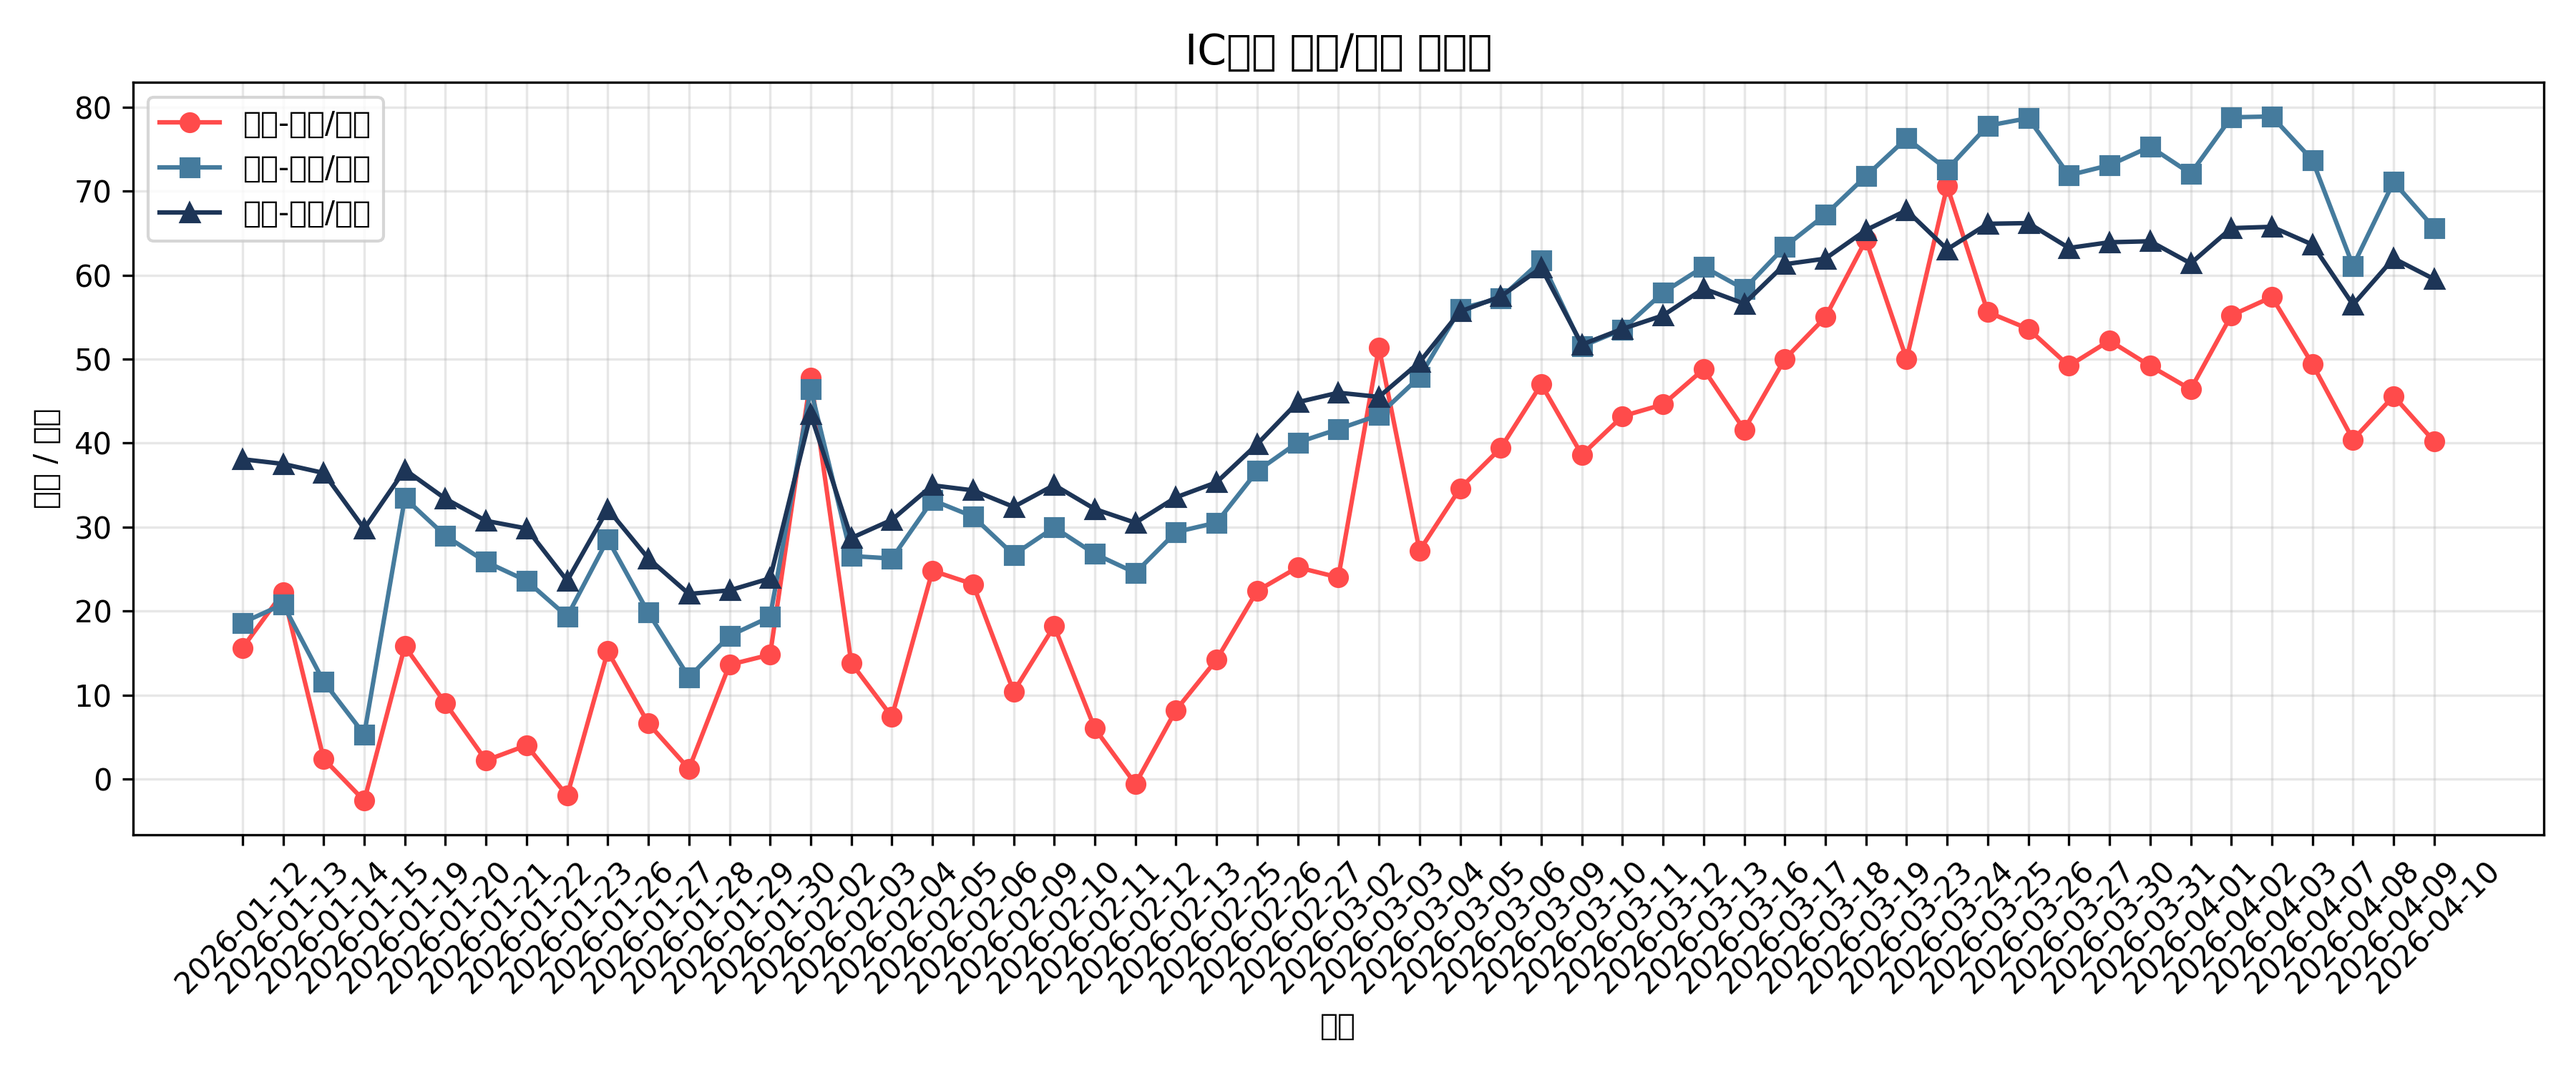
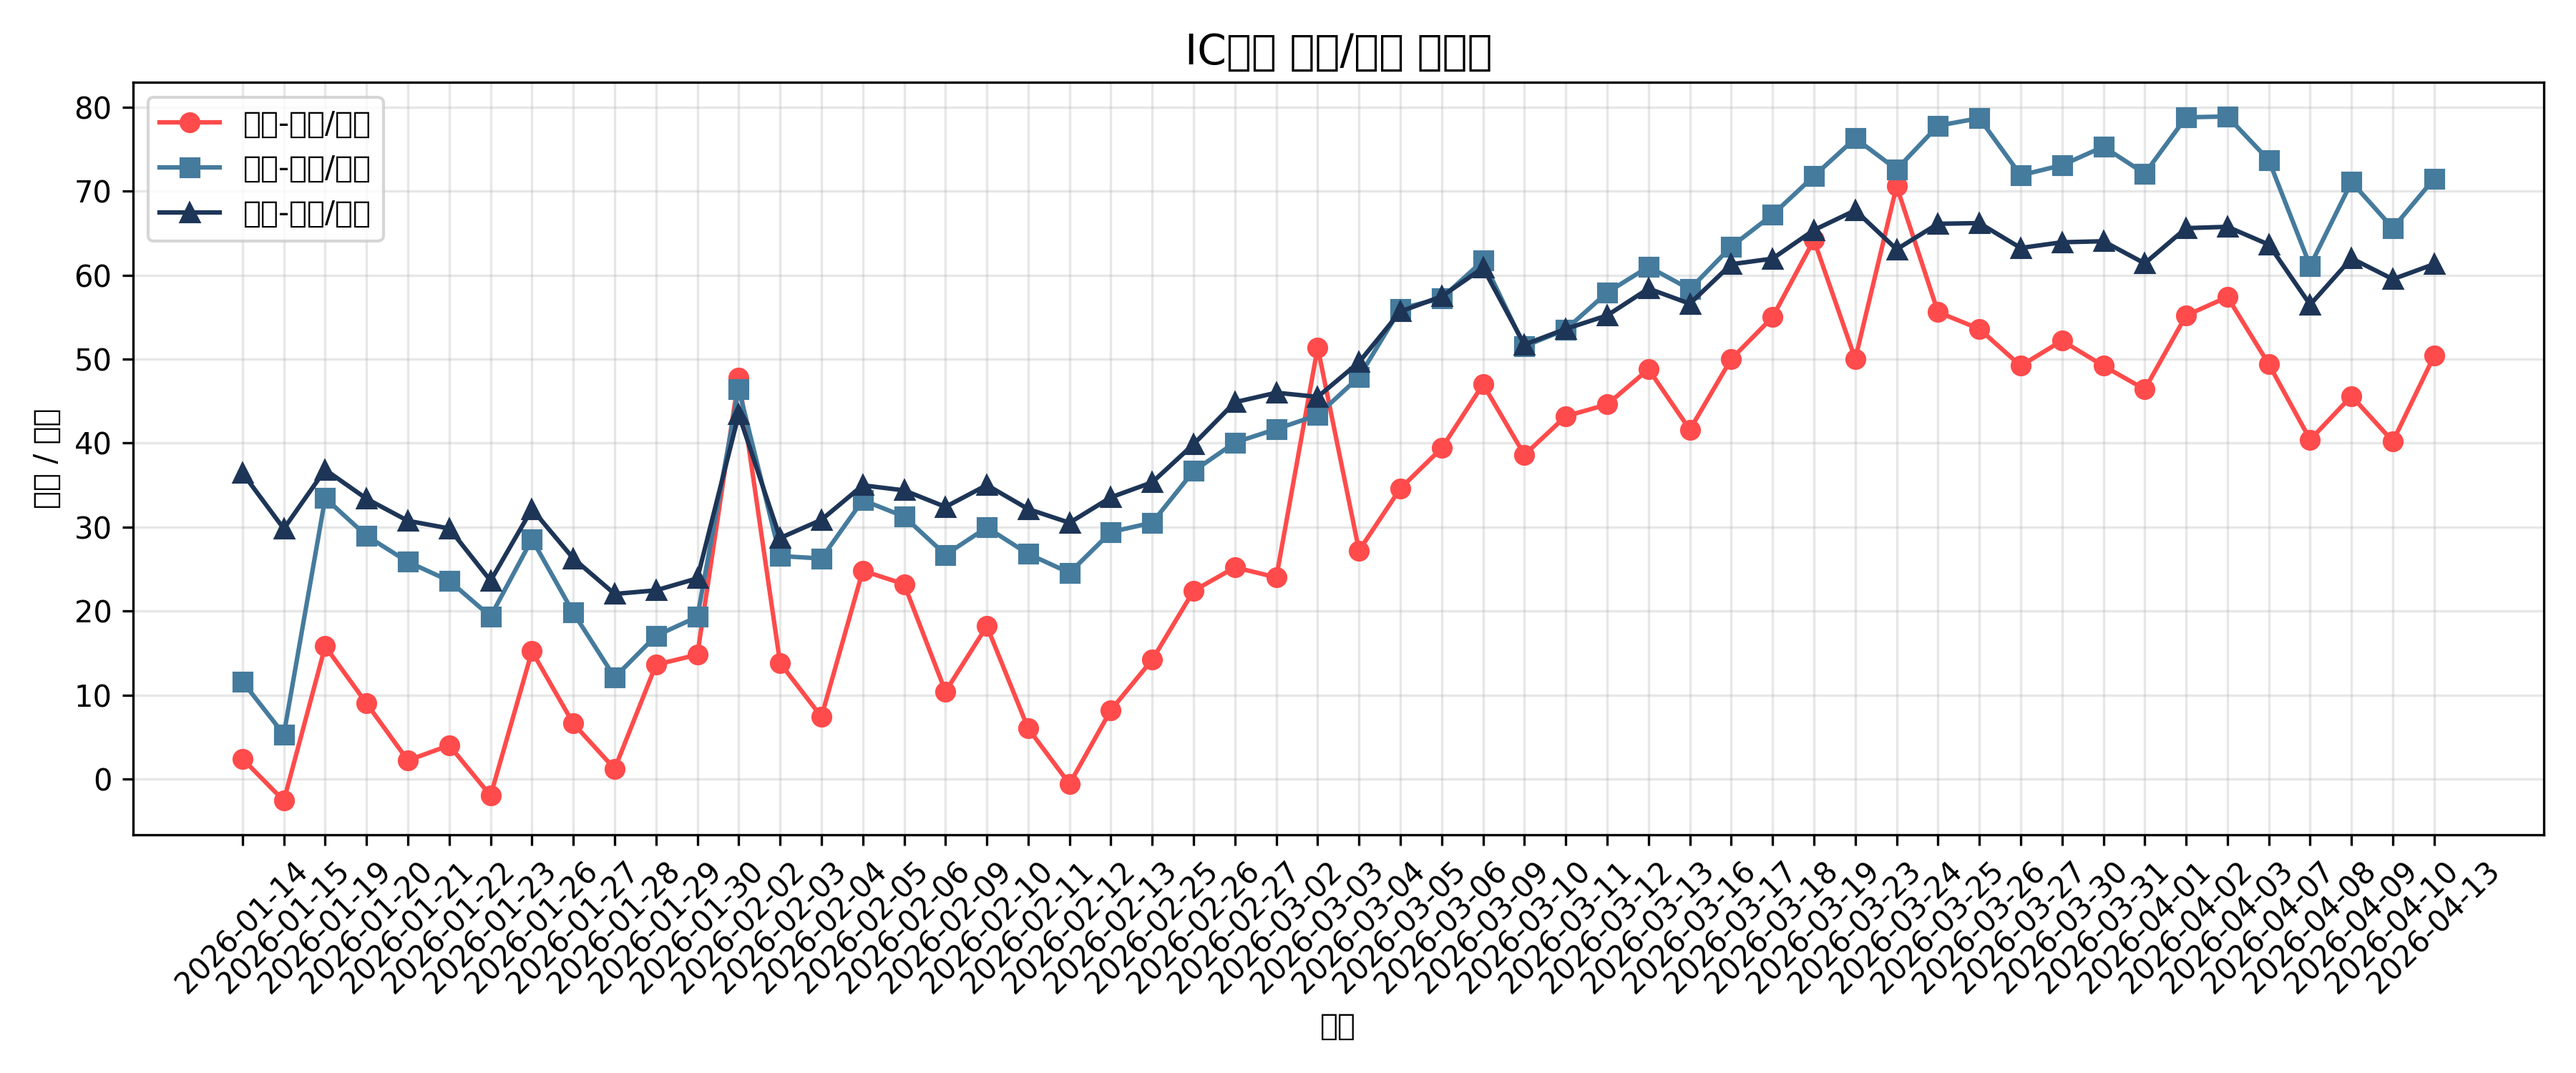
deploy: 4d1bb30b7b0bf8623cc214497fc979b4192c654b

Changed region(s): [[0.0933, 0.092, 0.9644, 0.7667], [0.0933, 0.7973, 0.9644, 0.92], [0.9333, 0.3067, 0.9644, 0.3373]]

diff --git a/index.html b/index.html
@@ -84,19 +84,19 @@
 <body>
     <div class="container">
         <h1>IC期货基差监控</h1>
-        <div class="last-updated">最后更新：2026-04-10 17:47:16</div>
+        <div class="last-updated">最后更新：2026-04-13 18:14:15</div>
         
         <div class="stats">
             <div class="stat-card">
-                <div class="stat-value">40.2</div>
+                <div class="stat-value">50.4</div>
                 <div class="stat-label">当月-下月/月差</div>
             </div>
             <div class="stat-card">
-                <div class="stat-value">65.6</div>
+                <div class="stat-value">71.5</div>
                 <div class="stat-label">当月-当季/月差</div>
             </div>
             <div class="stat-card">
-                <div class="stat-value">59.52</div>
+                <div class="stat-value">61.32</div>
                 <div class="stat-label">当月-下季/月差</div>
             </div>
         </div>
@@ -114,14 +114,6 @@
                 <th>当月-下月/月差</th>
                 <th>当月-当季/月差</th>
                 <th>当月-下季/月差</th>
-            </tr>
-
-            <tr>
-                <td>2026-04-01</td>
-                <td>IC2604</td>
-                <td>46.4</td>
-                <td>72.1</td>
-                <td>61.4</td>
             </tr>
 
             <tr>
@@ -170,6 +162,14 @@
                 <td>40.2</td>
                 <td>65.6</td>
                 <td>59.52</td>
+            </tr>
+
+            <tr>
+                <td>2026-04-13</td>
+                <td>IC2604</td>
+                <td>50.4</td>
+                <td>71.5</td>
+                <td>61.32</td>
             </tr>
 
         </table>
